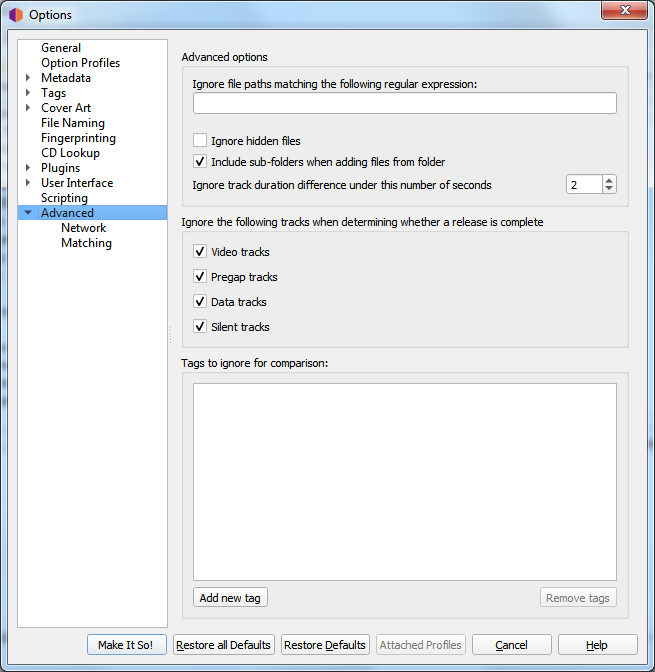
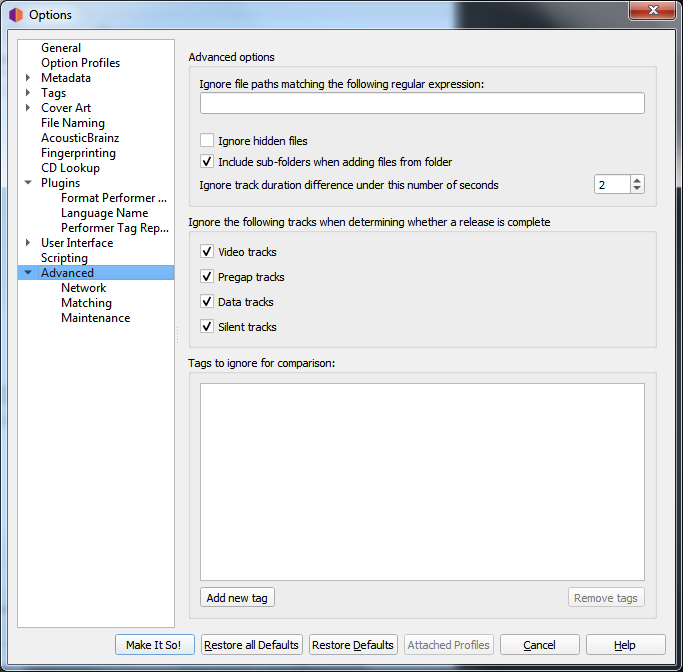
Add documentation for INI file maintenance option

diff --git a/config/options_maintenance.rst b/config/options_maintenance.rst
@@ -1,0 +1,28 @@
+.. MusicBrainz Picard Documentation Project
+
+:index:`Maintenance <configuration; maintenance>`
+=================================================
+
+.. image:: images/options-maintenance.png
+   :width: 100 %
+
+Over the course of trying out plugins and such, the configuration INI file can become
+bloated with orphaned settings.  This section allows you to remove unused option settings
+from the configuration INI file.
+
+Settings that are found in the configuration file that do not appear on any option
+settings page will be listed. If your configuration file does not contain any unused
+option settings, then the list will be empty and the removal checkbox will be
+disabled.
+
+To remove one or more settings, first enable the removal by checking the "Remove
+selected options" box. You can then select the settings to remove by checking the
+box next to the setting. When you choose :guilabel:`Make It So!` to save your option
+settings, the selected items will be removed.
+
+.. note::
+
+   Unused option settings could come from plugins that have been uninstalled,
+   so please be careful to not remove settings that you may want to use later when
+   the plugin is reinstalled. Options belonging to plugins that are installed but
+   currently disabled will not be listed for possible removal.

diff --git a/config/options_advanced.rst b/config/options_advanced.rst
@@ -47,10 +47,12 @@
 
       Details:
       :doc:`options_network` /
-      :doc:`options_matching`
+      :doc:`options_matching` /
+      :doc:`options_maintenance`
 
 .. toctree::
    :hidden:
 
    options_network
    options_matching
+   options_maintenance
